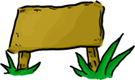
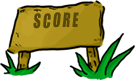
Alterado o desenho da placa

Changed region(s): [[0.237, 0.15, 0.5926, 0.375]]

diff --git a/game/utils.py b/game/utils.py
@@ -87,10 +87,10 @@ class GameObject(pygame.sprite.Sprite):
 class LifeCorns(GameObject):
 
     corns = 5
-    initial_corns = 5
     space = 32
 
     def __init__(self, image='corn.png', position=(5, 5)):
+        self.initial_corns = self.corns
         self.dead_image = os.path.join(images_dir, 'dead_corn.png')
         self.dead_image = pygame.image.load(self.dead_image)
 
@@ -110,29 +110,20 @@ class LifeCorns(GameObject):
 
 class Sign(GameObject):
 
-    def __init__(self, score, position=(175, 33), image='sign.png'):
+    def __init__(self, score, position=(280, 22), image='sign.png'):
         GameObject.__init__(self, image, position)
         font_path = os.path.join(fonts_dir, 'FreeSans.ttf')
         self.font = pygame.font.Font(font_path, 16)
-        self.label_position = (position[0] + 10, position[1] + 13)
+        self.label_position = (position[0] + 25, position[1] + 28)
         self.score = score
+        self.color = (100, 50, 0)
 
     def draw(self, screen):
         screen.blit(self.image, self.position)
         screen.blit(self.label, self.label_position)
 
     def update(self, dt):
-        self.label = self.font.render('Score: %s' %
-                                self.score, False, (100, 50, 0))
-
-
-class LivesSign(Sign):
-    def __init__(self, score, position=(360, 20), image='sign.png'):
-        Sign.__init__(self, score, position, image)
-
-    def update(self, dt):
-        self.label = self.font.render('Lifes: %s' %
-                                self.score, False, (100, 50, 0))
+        self.label = self.font.render('%s' % self.score, False, self.color)
 
 
 class Hole(GameObject):

diff --git a/game/scenes.py b/game/scenes.py
@@ -4,7 +4,7 @@ import pygame
 import os
 from random import randint
 
-from game.utils import Background, Sign, LivesSign, Hole, Player, HighScore, HammerBlow
+from game.utils import Background, Sign, Hole, Player, HighScore, HammerBlow
 from game.moles import Mole
 from game.buttons import Button
 from settings import fonts_dir, sounds_dir, project_dir
@@ -236,7 +236,6 @@ class SurvivalScene(Scene):
         self.background = Background("background.png")
         self.context['player'] = Player()
         self.score_sign = Sign(self.context['player'].score)
-        self.lives_sign = LivesSign(self.context['player'].lives)
         self.next_scene = EndScene(self.context)
         self.music = ('wooly_bully.mp3', -1)
         self.blow = HammerBlow()
@@ -262,11 +261,9 @@ class SurvivalScene(Scene):
 
     def reupdate(self):
         self.score_sign.update(self.context['dt'])
-        self.lives_sign.update(self.context['dt'])
 
     def redraw(self):
         self.score_sign.draw(self.context['screen'])
-        self.lives_sign.draw(self.context['screen'])
         self.context['player'].corns.draw(self.context['screen'])
 
     def refresh_holes(self):
@@ -299,7 +296,6 @@ class SurvivalScene(Scene):
         self.refresh_holes()
         self.refresh_player()
         self.score_sign.score = self.context['player'].score
-        self.lives_sign.score = self.context['player'].lives
 
     def generate_holes(self):
         for (x, lin) in enumerate(self.level_map):

diff --git a/main.py b/main.py
@@ -47,7 +47,7 @@ class Game(object):
                     'screen': self.screen,
                     'music': 'play',
                     'high_score': self.get_high_score()}
-        scene = TitleScene(context)
+        scene = FatecSplashScene(context)
 
         while scene:
             scene = scene.play(clock)
